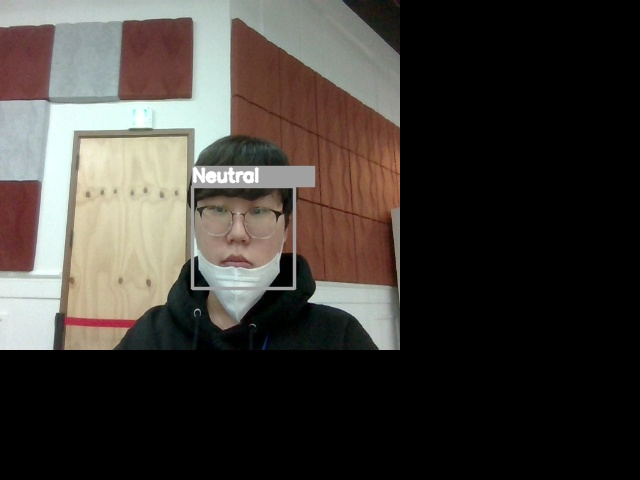
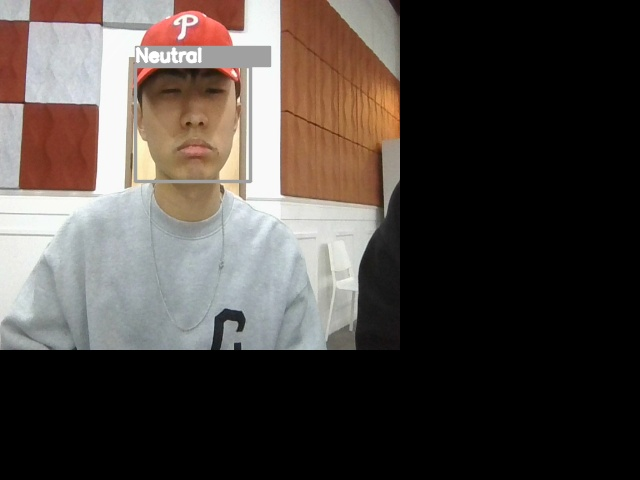
final commit

diff --git a/app/src/public/css/first.css b/app/src/public/css/first.css
@@ -1,0 +1,68 @@
+body {
+    background: whitesmoke;
+    display: table-cell;
+}
+
+button {
+    margin: 20px;
+}
+
+.w-btn {
+    position: relative;
+    border: none;
+    display: inline-block;
+    padding: 15px 30px;
+    border-radius: 15px;
+    font-family: "paybooc-Light", sans-serif;
+    box-shadow: 0 15px 35px rgba(0, 0, 0, 0.2);
+    text-decoration: none;
+    font-weight: 600;
+    transition: 0.25s;
+}
+
+.w-btn-outline {
+    position: relative;
+    padding: 15px 30px;
+    border-radius: 15px;
+    font-family: "paybooc-Light", sans-serif;
+    box-shadow: 0 15px 35px rgba(0, 0, 0, 0.2);
+    text-decoration: none;
+    font-weight: 600;
+    transition: 0.25s;
+}
+
+.w-btn-neon2 {
+    position: relative;
+    border: none;
+    min-width: 200px;
+    min-height: 50px;
+    background: linear-gradient(
+        90deg,
+        rgba(129, 230, 217, 1) 0%,
+        rgba(79, 209, 197, 1) 100%
+    );
+    border-radius: 1000px;
+    color: darkslategray;
+    cursor: pointer;
+    box-shadow: 12px 12px 24px rgba(79, 209, 197, 0.64);
+    font-weight: 700;
+    transition: 0.3s;
+}
+
+.w-btn-neon2:hover {
+    transform: scale(1.2);
+}
+
+.w-btn-neon2:hover::after {
+    content: "";
+    width: 30px;
+    height: 30px;
+    border-radius: 100%;
+    border: 6px solid #00ffcb;
+    position: absolute;
+    z-index: -1;
+    top: 50%;
+    left: 50%;
+    transform: translate(-50%, -50%);
+    animation: ring 1.5s infinite;
+}

diff --git a/app/src/routes/home/write.ctrl.js b/app/src/routes/home/write.ctrl.js
@@ -1,8 +1,28 @@
 const db = require("../../config/db")
 const fs = require("fs")
-
-const hello = (req, res)=> {
-    res.render("home/writeview")
+function sleep(ms) {
+    const wakeUpTime = Date.now() + ms;
+    while (Date.now() < wakeUpTime) {}
+  }
+const hello =(req, res) => {
+    res.render("home/webcam_capture")
+    sleep(10000)
+    fs.readFile("../current_emotion.txt",'utf-8',function (err, data) {
+        if(err){
+            console.log(err)
+        }
+        else{
+            if(data == 'good'){
+                console.log(data)
+                return res.render("home/homeview")
+            }
+            else{
+                console.log(data)
+                return res.render("home/writeview")
+            }
+        }
+    })
+    
 }
 const menu = (req, res) => {
     res.redirect("/view")
@@ -22,15 +42,10 @@ const getinsert = (req, res) => {
             console.log(err)
             res.status(500).send('Internal Server Error')
         }else{
-            
-        var JsonData = document.getElementByID("myJsonData");
-        var myJsonData = JSON.parse(jsonData);
-            res.render('home/writeview',{data : jsonData})
+           res.render("home/writeview.ejs")
          }
     })
-    fs.readFile('writeview.ejs', 'utf8', function (err, data) {
-        res.send(data)
-      })
+    
 }
 const insert = (req, res, next) => {
     var title = req.body.title

diff --git a/app/src/routes/home/index.js b/app/src/routes/home/index.js
@@ -12,7 +12,7 @@ const { create } = require("domain");
 router.get('/', ctrl.hello)
 router.get('/',ctrl.write)
 router.get('/write',ctrlwrite.hello)
-router.get('/view',ctrlview.read)
-router.get('/write', ctrlwrite.getinsert)
-router.post('/write',ctrlwrite.insert)
+router.get('/view',ctrlwrite.getinsert)
+// router.get('/write', ctrlwrite.getinsert)
+router.post('/view',ctrlwrite.insert)
 module.exports = router

diff --git a/app/src/public/js/home/home.js b/app/src/public/js/home/home.js
@@ -5,7 +5,7 @@ const writeButton = document.querySelector("#write")
 writeButton.addEventListener("click", write)
 
 function write(){
-    return location.assign("/write")
+    return window.location.assign("http://localhost:3002/write")
 }
 
 

diff --git a/app/bin/www.js b/app/bin/www.js
@@ -1,5 +1,5 @@
 const app = require("../app")
 
-app.listen(3000, function(){
+app.listen(3002, function(){
     console.log("Server started")
 })
